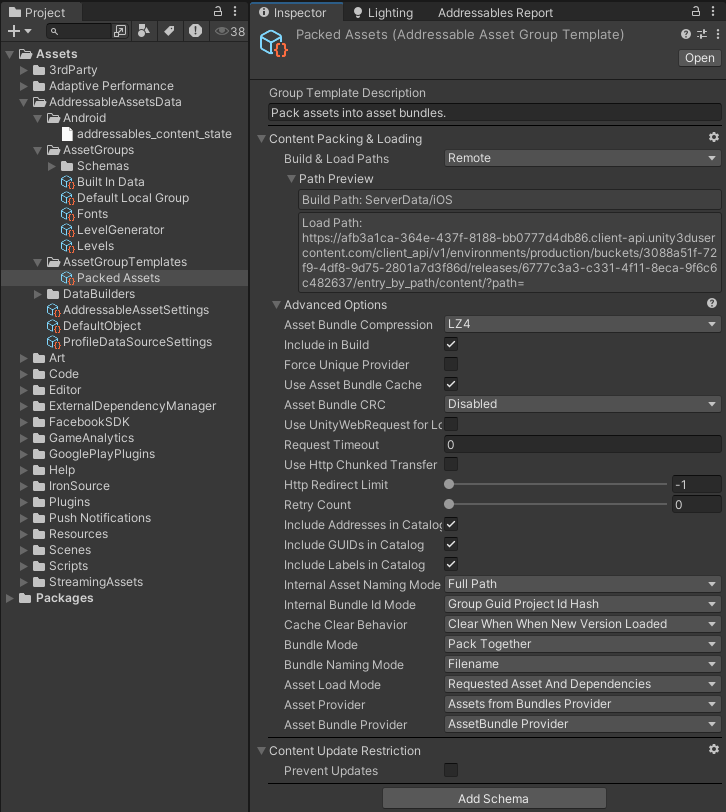
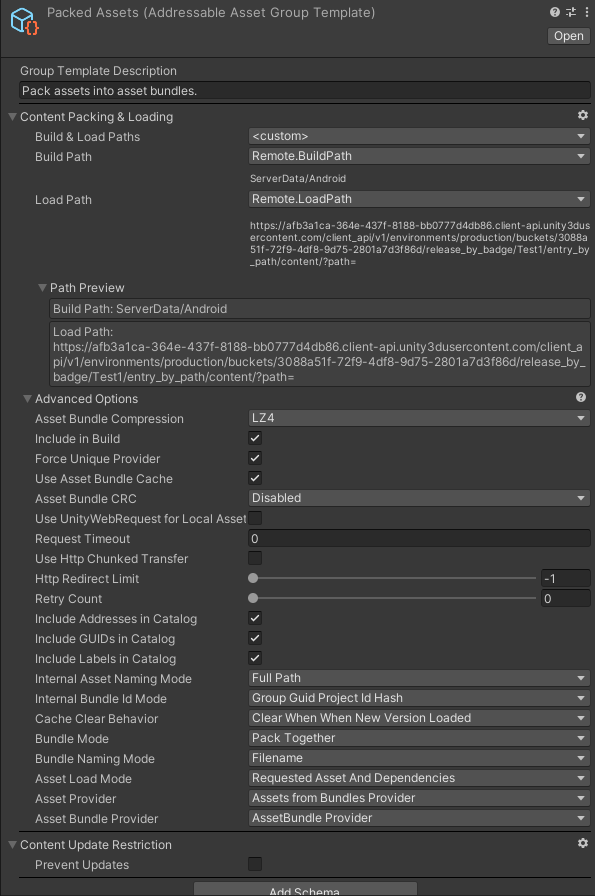
Updated addressables documentation.

Changed region(s): [[0.0, 0.0, 1.0, 1.0]]

diff --git a/docs/custompackage_addressables_update.md b/docs/custompackage_addressables_update.md
@@ -8,15 +8,24 @@ Here are the steps on how to update the projects `Addressables` when using the `
 - Be a member of the FisipGroup organization and have `Manager` permissions.
 - Addressables custom package added.
 
+
 ## Delete Old Addressable Files
 1. Go to `"Project Root" -> ServerData -> "Selected Platform"`.
 2. Delete all files inside folder.
 ![Files folder](images/custompackage/addressables/custompackage_addressables_update_1.png)
 
+
 ## Build addressables
-1. Go to `Window -> Asset management -> Addressables -> Groups`.
-2. Select `Build -> New Build -> Default Build Script`.
+1. Go to `FisipGroup -> Addressables`.
+2. On `Badge` select which badge you want to build to or create a new one.
+    - On [Unity Services Dashboard](https://cloud.unity.com/home) go to `Cloud Content Delivery -> Buckets -> Select right Bucket -> Badges` to see what badges are available and create a new one.
+    ![Build](images/custompackage/addressables/custompackage_addressables_update_5.png)
+    - If the changes are very minor and you don't need to create a new whole release you can just set the last used `Badge` to the this release.
+3. Under the `Tools` section select `Save and Update`.
+4. Go to `Window -> Asset management -> Addressables -> Groups`.
+5. Select `Build -> New Build -> Default Build Script`.
 ![Build](images/custompackage/addressables/custompackage_addressables_update_2.png)
+
 
 ## Update Unity Services
 1. Go to [Unity Services](https://cloud.unity.com/home).
@@ -30,9 +39,29 @@ Here are the steps on how to update the projects `Addressables` when using the `
 7. Drop the new built files.
 8. Press `Upload "x" Files`.
 9. Add notes describing the changes on these new addressables.
-10. Simply press `Next` on the `Badges` section since we aren't using them.
+10. Select the `Badge` you are going to use on this release.
+    - If you haven't created the `Badge` for the new release beforehand you can do so after the upload. 
 11. Press `Upload & Create Release`.
 12. Once the upload is done select `Refresh Page`.
+
+
+## Create or set new Badge
+1. - On [Unity Services Dashboard](https://cloud.unity.com/home) go to `Cloud Content Delivery -> Buckets -> Select right Bucket -> Badges`.
+![Badges](images/custompackage/addressables/custompackage_addressables_update_5.png)
+
+### Create new Badge
+1. Select `Add new`.
+2. Enter the new badge name.
+3. Select which release you want to have that badge.
+4. Press `Submit`.
+
+### Set new Badge
+If the changes are very minor and you feel like you don't need to create a new whole release you can just set the last used `Badge` to the latest release.
+
+1. Select the `Three dot` icon on the right of the badge and select `Edit Badge`.
+2. Select which release you want to have that badge.
+3. Press `Submit`.
+
 
 ## Update Info Scriptable Object
 1. On the unity project go to `FisipGroup -> Addressables`.

diff --git a/docs/custompackage_addressables_setup.md b/docs/custompackage_addressables_setup.md
@@ -21,5 +21,5 @@ They can be found here: [Recommended Settings](https://joaosantosfisip.github.io
 2. Add the necessary info.
     - All the ID's can be found on the `Cloud Content Delivery -> Buckets -> "Platform bucket" _> GUID's`.
     ![GUID's](images/custompackage/addressables/custompackage_addressables_setup_1.png)
-    - Make sure you are using the `ID's` from the correct release. You can find the others on the `Releases` section.
-3. Select `File -> Save` to make sure the changes are added.
+    - For the `Badge` value can be found on the `BADGES` section, copy and paste the name of the release badge you want to download assets from.
+3. Back to the Unity's `FisipGroup Addressables` window under `Tools` select `Save and Update` to make sure the profile remote URL is updated.

diff --git a/docs/custompackage_addressables_settings.md b/docs/custompackage_addressables_settings.md
@@ -11,5 +11,5 @@ The `Remote` load path is already set by the custom package scripts.
 ![Packet Assets](images/custompackage/addressables/custompackage_addressables_settings_2.png)
 
 ## Default Local Group
-These settings are also applicable to the other `AssetGroups`.
+These settings need to be aplied to the other `AssetGroups`.
 ![Default Local Group](images/custompackage/addressables/custompackage_addressables_settings_3.png)
